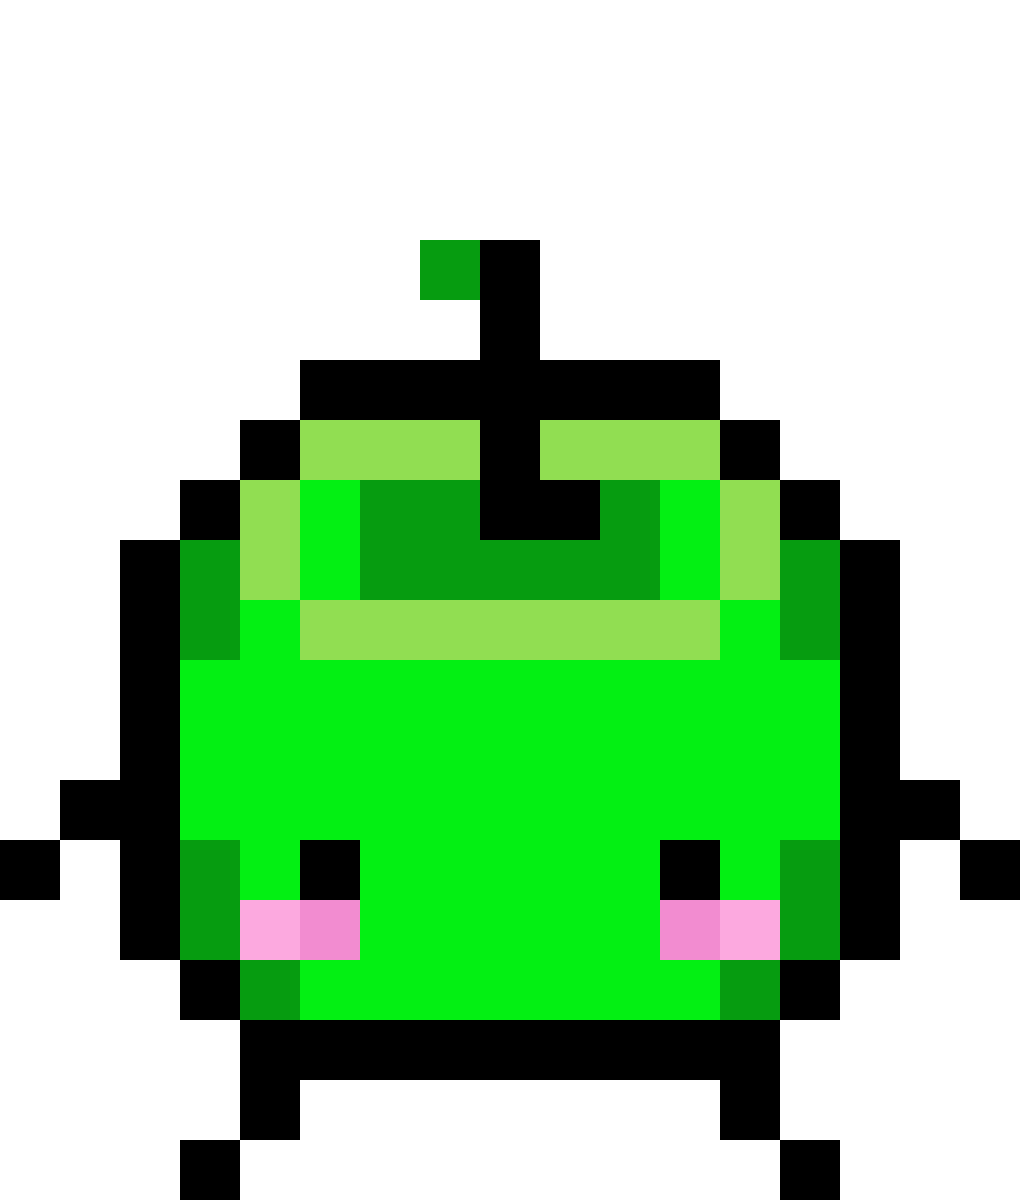
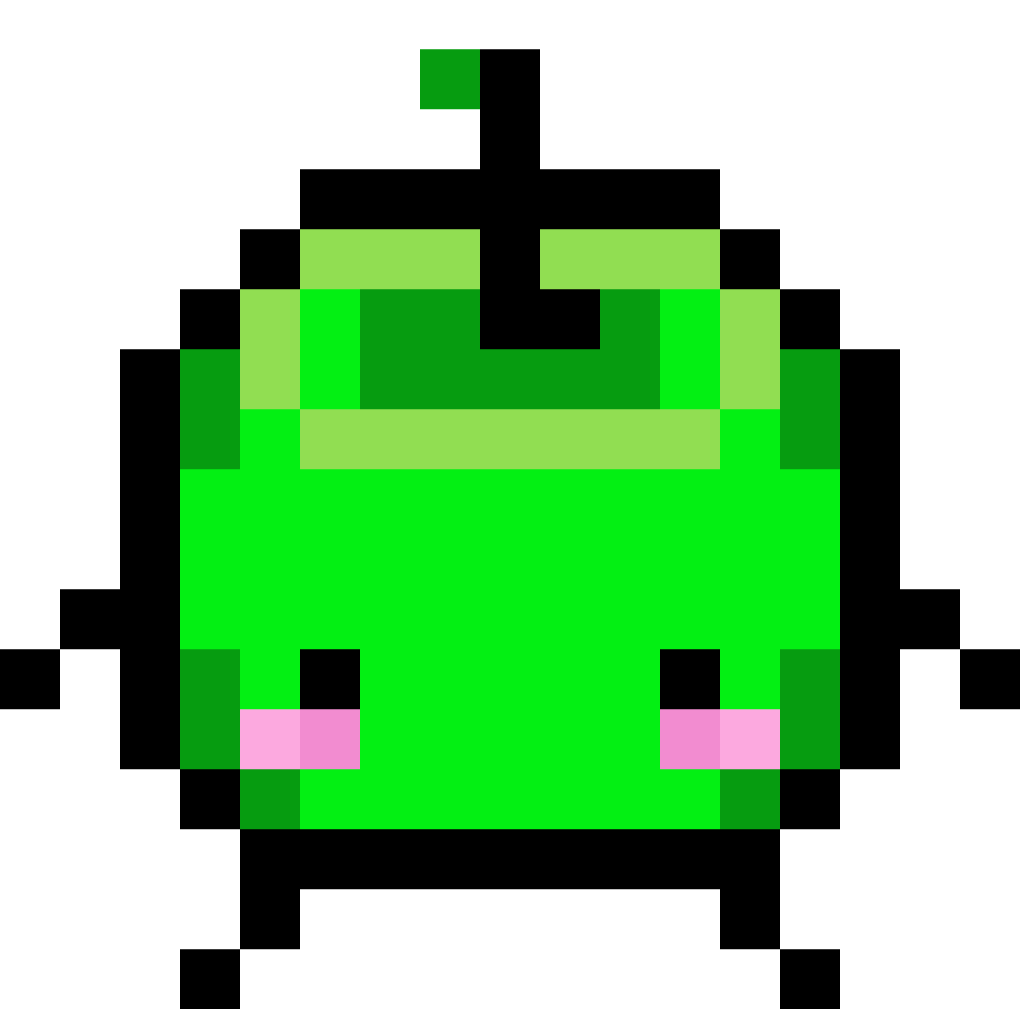
merapihkan gui.py

diff --git a/gui.py b/gui.py
@@ -38,16 +38,36 @@ class AssistantGUI:
 
     def render(self):
         with st.sidebar:
-            st.logo("./data/stardew_logo.png")
+            st.logo("./data/junimo.png")
 
             st.title("Ask Junimo")
             st.subheader("Player Information")
-            if isinstance(self.player_information, dict):
-                for key, value in self.player_information.items():
-                    clean_key = str(key).replace("_", " ").title()
-                    st.markdown(f"**{clean_key}:** {value}")
-            else:
-                st.write(self.player_information)
+
+            player = self.player_information
+            st.markdown(f"**👤 Name:** {player['player_name']}")
+            st.markdown(f"**🏡 Farm:** {player['farm_name']} ({player['farm_type']})")
+            st.markdown(f"**🗓 Time:** {player['current_season']}, Year {player['current_year']}")
+            st.markdown(f"**🐶 Pet:** {player['pet_type']}")
+            st.markdown(f"**⭐ Favorite:** {player['favorite_thing']}")
+            
+  
+            st.metric(label="💰 Current Gold", value=f"{player['current_gold']:,} G")
+
+            with st.expander("💪 Player Skills (Level 1-10)"):
+                st.caption(f"Farming (Lv {player['skills']['farming']})")
+                st.progress(player['skills']['farming'] * 10) 
+                
+                st.caption(f"Mining (Lv {player['skills']['mining']})")
+                st.progress(player['skills']['mining'] * 10)
+                
+                st.caption(f"Foraging (Lv {player['skills']['foraging']})")
+                st.progress(player['skills']['foraging'] * 10)
+                
+                st.caption(f"Fishing (Lv {player['skills']['fishing']})")
+                st.progress(player['skills']['fishing'] * 10)
+                
+                st.caption(f"Combat (Lv {player['skills']['combat']})")
+                st.progress(player['skills']['combat'] * 10)
 
         self.render_messages()
 

diff --git a/data/player.py b/data/player.py
@@ -26,7 +26,11 @@ def generate_player_data(num_players=1):
             "current_season": random.choice(["Spring", "Summer", "Fall", "Winter"]),
             "current_year": random.randint(1, 3),
             "current_gold": random.randint(1000, 50000),
-            "favorite_thing": random.choice(["Coding", "Coffee", "Pizza", "Stardrop", "Gaming"]),
+            "favorite_thing": random.choice(["Stardew Valley", "Coffee", "Pizza", "Stardrop", 
+                                             "Gaming", "Fishing", "Farming", "Mining", "Foraging", 
+                                             "Combat", "Abigail", "Emily", "Leah", "Penny",
+                                             "Maru", "Sam", "Sebastian", "Shane", "Harvey", 
+                                             "Elliott", "Alex", "Haley", "Krobus"]),
             "pet_type": random.choice(["Dog", "Cat"]),
             "skills": {
                 "farming": random.randint(1, 10),
